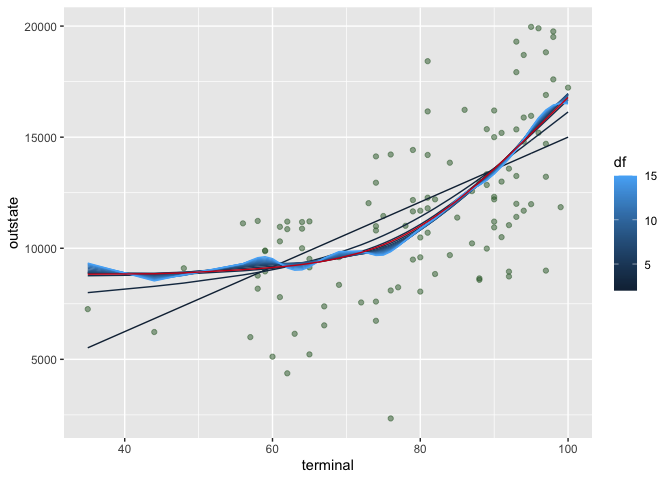
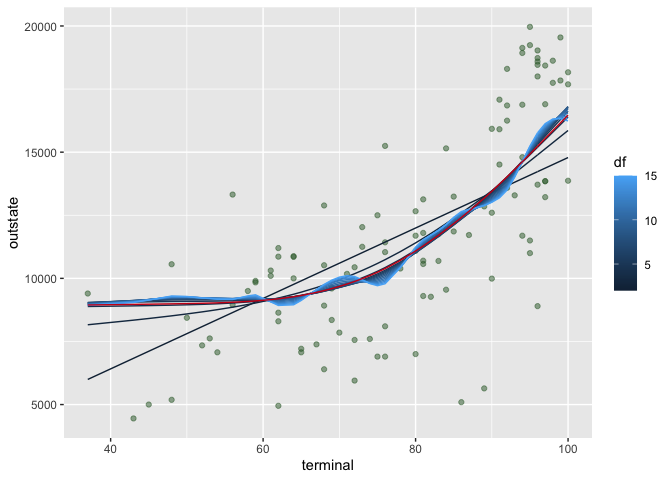
GAM

diff --git a/ds2_hw2.md b/ds2_hw2.md
@@ -53,34 +53,41 @@ dim(train_df)
 summary(train_df)
 ```
 
-    ##     outstate          apps           accept         enroll       top10perc 
-    ##  Min.   : 4400   Min.   :   81   Min.   :  72   Min.   :  35   Min.   : 2  
-    ##  1st Qu.: 9100   1st Qu.:  608   1st Qu.: 497   1st Qu.: 204   1st Qu.:16  
-    ##  Median :11200   Median : 1107   Median : 849   Median : 324   Median :25  
-    ##  Mean   :11830   Mean   : 1941   Mean   :1271   Mean   : 443   Mean   :29  
-    ##  3rd Qu.:13970   3rd Qu.: 2153   3rd Qu.:1553   3rd Qu.: 509   3rd Qu.:36  
-    ##  Max.   :21700   Max.   :13865   Max.   :8498   Max.   :2517   Max.   :96  
-    ##    top25perc      f_undergrad     p_undergrad        room_board  
-    ##  Min.   : 13.0   Min.   :  139   Min.   :    1.0   Min.   :2460  
-    ##  1st Qu.: 42.0   1st Qu.:  846   1st Qu.:   63.0   1st Qu.:3710  
-    ##  Median : 55.0   Median : 1241   Median :  211.0   Median :4400  
-    ##  Mean   : 56.5   Mean   : 1821   Mean   :  428.7   Mean   :4567  
-    ##  3rd Qu.: 69.0   3rd Qu.: 1988   3rd Qu.:  526.0   3rd Qu.:5400  
-    ##  Max.   :100.0   Max.   :13259   Max.   :10221.0   Max.   :7425  
-    ##      books           personal         ph_d           terminal     
-    ##  Min.   : 250.0   Min.   : 250   Min.   : 10.00   Min.   : 24.00  
-    ##  1st Qu.: 450.0   1st Qu.: 800   1st Qu.: 60.00   1st Qu.: 68.00  
-    ##  Median : 500.0   Median :1100   Median : 73.00   Median : 80.00  
-    ##  Mean   : 543.4   Mean   :1221   Mean   : 70.74   Mean   : 78.26  
-    ##  3rd Qu.: 600.0   3rd Qu.:1500   3rd Qu.: 85.00   3rd Qu.: 92.00  
-    ##  Max.   :2000.0   Max.   :4913   Max.   :100.00   Max.   :100.00  
-    ##    s_f_ratio      perc_alumni        expend        grad_rate     
-    ##  Min.   : 2.50   Min.   : 2.00   Min.   : 3186   Min.   : 15.00  
-    ##  1st Qu.:11.10   1st Qu.:16.00   1st Qu.: 7356   1st Qu.: 58.00  
-    ##  Median :12.70   Median :25.00   Median : 8953   Median : 69.00  
-    ##  Mean   :12.93   Mean   :25.83   Mean   :10590   Mean   : 68.67  
-    ##  3rd Qu.:14.50   3rd Qu.:34.00   3rd Qu.:11677   3rd Qu.: 81.00  
-    ##  Max.   :39.80   Max.   :64.00   Max.   :56233   Max.   :118.00
+    ##     outstate          apps           accept          enroll      
+    ##  Min.   : 2340   Min.   :   81   Min.   :   72   Min.   :  35.0  
+    ##  1st Qu.: 9100   1st Qu.:  604   1st Qu.:  485   1st Qu.: 198.0  
+    ##  Median :11200   Median : 1110   Median :  838   Median : 324.0  
+    ##  Mean   :11779   Mean   : 1900   Mean   : 1280   Mean   : 446.9  
+    ##  3rd Qu.:13970   3rd Qu.: 2135   3rd Qu.: 1553   3rd Qu.: 511.0  
+    ##  Max.   :21700   Max.   :20192   Max.   :13007   Max.   :4615.0  
+    ##    top10perc       top25perc      f_undergrad     p_undergrad     
+    ##  Min.   : 1.00   Min.   :  9.0   Min.   :  139   Min.   :    1.0  
+    ##  1st Qu.:16.00   1st Qu.: 43.0   1st Qu.:  822   1st Qu.:   69.0  
+    ##  Median :25.00   Median : 56.0   Median : 1271   Median :  216.0  
+    ##  Mean   :29.25   Mean   : 57.2   Mean   : 1827   Mean   :  435.6  
+    ##  3rd Qu.:36.00   3rd Qu.: 70.0   3rd Qu.: 1983   3rd Qu.:  538.0  
+    ##  Max.   :96.00   Max.   :100.0   Max.   :27378   Max.   :10221.0  
+    ##    room_board       books           personal         ph_d       
+    ##  Min.   :2370   Min.   : 250.0   Min.   : 300   Min.   :  8.00  
+    ##  1st Qu.:3736   1st Qu.: 450.0   1st Qu.: 800   1st Qu.: 60.00  
+    ##  Median :4375   Median : 500.0   Median :1100   Median : 73.00  
+    ##  Mean   :4569   Mean   : 545.3   Mean   :1212   Mean   : 70.84  
+    ##  3rd Qu.:5340   3rd Qu.: 600.0   3rd Qu.:1500   3rd Qu.: 84.00  
+    ##  Max.   :8124   Max.   :2340.0   Max.   :4913   Max.   :100.00  
+    ##     terminal        s_f_ratio      perc_alumni        expend     
+    ##  Min.   : 24.00   Min.   : 2.90   Min.   : 2.00   Min.   : 3480  
+    ##  1st Qu.: 68.00   1st Qu.:11.10   1st Qu.:16.00   1st Qu.: 7477  
+    ##  Median : 81.00   Median :12.70   Median :25.00   Median : 9006  
+    ##  Mean   : 78.45   Mean   :13.04   Mean   :25.93   Mean   :10429  
+    ##  3rd Qu.: 92.00   3rd Qu.:14.50   3rd Qu.:34.00   3rd Qu.:11291  
+    ##  Max.   :100.00   Max.   :39.80   Max.   :64.00   Max.   :56233  
+    ##    grad_rate     
+    ##  Min.   : 18.00  
+    ##  1st Qu.: 59.00  
+    ##  Median : 70.00  
+    ##  Mean   : 69.22  
+    ##  3rd Qu.: 81.00  
+    ##  Max.   :118.00
 
 ``` r
 skimr::skim(train_df)
@@ -103,23 +110,23 @@ Data summary
 
 | skim_variable | n_missing | complete_rate |     mean |      sd |     p0 |    p25 |     p50 |     p75 |    p100 | hist  |
 |:--------------|----------:|--------------:|---------:|--------:|-------:|-------:|--------:|--------:|--------:|:------|
-| outstate      |         0 |             1 | 11829.55 | 3725.90 | 4400.0 | 9100.0 | 11200.0 | 13970.0 | 21700.0 | ▃▇▆▃▂ |
-| apps          |         0 |             1 |  1941.43 | 2335.76 |   81.0 |  608.0 |  1107.0 |  2153.0 | 13865.0 | ▇▁▁▁▁ |
-| accept        |         0 |             1 |  1270.72 | 1247.65 |   72.0 |  497.0 |   849.0 |  1553.0 |  8498.0 | ▇▂▁▁▁ |
-| enroll        |         0 |             1 |   443.02 |  400.73 |   35.0 |  204.0 |   324.0 |   509.0 |  2517.0 | ▇▂▁▁▁ |
-| top10perc     |         0 |             1 |    29.00 |   17.97 |    2.0 |   16.0 |    25.0 |    36.0 |    96.0 | ▇▇▃▁▁ |
-| top25perc     |         0 |             1 |    56.50 |   19.66 |   13.0 |   42.0 |    55.0 |    69.0 |   100.0 | ▂▆▇▅▃ |
-| f_undergrad   |         0 |             1 |  1821.20 | 1756.47 |  139.0 |  846.0 |  1241.0 |  1988.0 | 13259.0 | ▇▁▁▁▁ |
-| p_undergrad   |         0 |             1 |   428.73 |  739.30 |    1.0 |   63.0 |   211.0 |   526.0 | 10221.0 | ▇▁▁▁▁ |
-| room_board    |         0 |             1 |  4566.72 | 1089.86 | 2460.0 | 3710.0 |  4400.0 |  5400.0 |  7425.0 | ▃▇▅▃▁ |
-| books         |         0 |             1 |   543.41 |  165.01 |  250.0 |  450.0 |   500.0 |   600.0 |  2000.0 | ▇▂▁▁▁ |
-| personal      |         0 |             1 |  1220.52 |  608.20 |  250.0 |  800.0 |  1100.0 |  1500.0 |  4913.0 | ▇▅▁▁▁ |
-| ph_d          |         0 |             1 |    70.74 |   17.54 |   10.0 |   60.0 |    73.0 |    85.0 |   100.0 | ▁▂▅▇▆ |
-| terminal      |         0 |             1 |    78.26 |   15.77 |   24.0 |   68.0 |    80.0 |    92.0 |   100.0 | ▁▂▃▆▇ |
-| s_f\_ratio    |         0 |             1 |    12.93 |    3.59 |    2.5 |   11.1 |    12.7 |    14.5 |    39.8 | ▂▇▁▁▁ |
-| perc_alumni   |         0 |             1 |    25.83 |   12.31 |    2.0 |   16.0 |    25.0 |    34.0 |    64.0 | ▅▇▇▂▁ |
-| expend        |         0 |             1 | 10589.60 | 5987.11 | 3186.0 | 7356.0 |  8953.0 | 11677.0 | 56233.0 | ▇▂▁▁▁ |
-| grad_rate     |         0 |             1 |    68.67 |   16.52 |   15.0 |   58.0 |    69.0 |    81.0 |   118.0 | ▁▅▇▆▁ |
+| outstate      |         0 |             1 | 11778.72 | 3636.44 | 2340.0 | 9100.0 | 11200.0 | 13970.0 | 21700.0 | ▁▆▇▃▂ |
+| apps          |         0 |             1 |  1900.11 | 2368.92 |   81.0 |  604.0 |  1110.0 |  2135.0 | 20192.0 | ▇▁▁▁▁ |
+| accept        |         0 |             1 |  1280.25 | 1375.00 |   72.0 |  485.0 |   838.0 |  1553.0 | 13007.0 | ▇▁▁▁▁ |
+| enroll        |         0 |             1 |   446.90 |  457.83 |   35.0 |  198.0 |   324.0 |   511.0 |  4615.0 | ▇▁▁▁▁ |
+| top10perc     |         0 |             1 |    29.25 |   17.51 |    1.0 |   16.0 |    25.0 |    36.0 |    96.0 | ▆▇▃▁▁ |
+| top25perc     |         0 |             1 |    57.20 |   19.38 |    9.0 |   43.0 |    56.0 |    70.0 |   100.0 | ▁▆▇▅▃ |
+| f_undergrad   |         0 |             1 |  1827.30 | 2109.70 |  139.0 |  822.0 |  1271.0 |  1983.0 | 27378.0 | ▇▁▁▁▁ |
+| p_undergrad   |         0 |             1 |   435.63 |  732.64 |    1.0 |   69.0 |   216.0 |   538.0 | 10221.0 | ▇▁▁▁▁ |
+| room_board    |         0 |             1 |  4569.20 | 1076.78 | 2370.0 | 3736.0 |  4375.0 |  5340.0 |  8124.0 | ▃▇▅▃▁ |
+| books         |         0 |             1 |   545.30 |  177.00 |  250.0 |  450.0 |   500.0 |   600.0 |  2340.0 | ▇▁▁▁▁ |
+| personal      |         0 |             1 |  1212.21 |  592.41 |  300.0 |  800.0 |  1100.0 |  1500.0 |  4913.0 | ▇▅▁▁▁ |
+| ph_d          |         0 |             1 |    70.84 |   17.37 |    8.0 |   60.0 |    73.0 |    84.0 |   100.0 | ▁▁▅▇▆ |
+| terminal      |         0 |             1 |    78.45 |   15.43 |   24.0 |   68.0 |    81.0 |    92.0 |   100.0 | ▁▁▃▆▇ |
+| s_f\_ratio    |         0 |             1 |    13.04 |    3.58 |    2.9 |   11.1 |    12.7 |    14.5 |    39.8 | ▂▇▁▁▁ |
+| perc_alumni   |         0 |             1 |    25.93 |   12.45 |    2.0 |   16.0 |    25.0 |    34.0 |    64.0 | ▅▇▇▂▁ |
+| expend        |         0 |             1 | 10428.70 | 5640.67 | 3480.0 | 7477.0 |  9006.0 | 11291.0 | 56233.0 | ▇▁▁▁▁ |
+| grad_rate     |         0 |             1 |    69.22 |   16.57 |   18.0 |   59.0 |    70.0 |    81.0 |   118.0 | ▁▃▇▅▁ |
 
 There are 453 rows and 17 columns in training data, all the variables
 are numeric.
@@ -162,10 +169,10 @@ fit_ss = smooth.spline(x = train_df$terminal, y = train_df$outstate)
 fit_ss$df
 ```
 
-    ## [1] 4.390602
+    ## [1] 4.259664
 
 The optimal degree of freedom obtained by default cross validation is
-4.391.
+4.26.
 
 Use this **optimal degree of freedom** to make following predictions:
 
@@ -270,4 +277,141 @@ model using the optimum degree of freedom.
 As the degree of freedom approaching to 2, the line gets more linear; as
 the degree of freedom approaching to 15, the line gets more wiggled.  
 Among all the fitted lines within the (2, 15) degree of freedom range,
-df = 4.391 should be the nearest to the red line.
+df = 4.26 should be the nearest to the red line.
+
+## Generalized Additive Model (GAM)
+
+``` r
+set.seed(2570)
+
+# set cross validation method
+ctrl = trainControl(method = "cv", number = 10)
+
+# fit a GAM model using all the predictors
+# ngcv package not available for current R version, siwth to caret
+gam_fit = train(x = x_train,
+                y = y_train,
+                method = "gam",
+                #tuneGrid = data.frame(method = "GCV.Cp",select = c(TRUE, FALSE)),
+                trControl = ctrl)
+```
+
+    ## Loading required package: mgcv
+
+    ## Loading required package: nlme
+
+    ## 
+    ## Attaching package: 'nlme'
+
+    ## The following object is masked from 'package:dplyr':
+    ## 
+    ##     collapse
+
+    ## This is mgcv 1.8-38. For overview type 'help("mgcv-package")'.
+
+``` r
+gam_fit$bestTune
+```
+
+    ##   select method
+    ## 1  FALSE GCV.Cp
+
+``` r
+gam_fit$finalModel
+```
+
+    ## 
+    ## Family: gaussian 
+    ## Link function: identity 
+    ## 
+    ## Formula:
+    ## .outcome ~ s(perc_alumni) + s(terminal) + s(books) + s(top10perc) + 
+    ##     s(grad_rate) + s(ph_d) + s(top25perc) + s(s_f_ratio) + s(personal) + 
+    ##     s(p_undergrad) + s(room_board) + s(enroll) + s(accept) + 
+    ##     s(f_undergrad) + s(apps) + s(expend)
+    ## 
+    ## Estimated degrees of freedom:
+    ## 1.91 1.00 1.50 8.25 4.26 5.18 1.23 
+    ## 4.36 2.25 1.00 2.48 1.00 1.00 6.80 
+    ## 1.00 6.02  total = 50.25 
+    ## 
+    ## GCV score: 2687719
+
+``` r
+summary(gam_fit)
+```
+
+    ## 
+    ## Family: gaussian 
+    ## Link function: identity 
+    ## 
+    ## Formula:
+    ## .outcome ~ s(perc_alumni) + s(terminal) + s(books) + s(top10perc) + 
+    ##     s(grad_rate) + s(ph_d) + s(top25perc) + s(s_f_ratio) + s(personal) + 
+    ##     s(p_undergrad) + s(room_board) + s(enroll) + s(accept) + 
+    ##     s(f_undergrad) + s(apps) + s(expend)
+    ## 
+    ## Parametric coefficients:
+    ##             Estimate Std. Error t value Pr(>|t|)    
+    ## (Intercept) 11778.72      72.63   162.2   <2e-16 ***
+    ## ---
+    ## Signif. codes:  0 '***' 0.001 '**' 0.01 '*' 0.05 '.' 0.1 ' ' 1
+    ## 
+    ## Approximate significance of smooth terms:
+    ##                  edf Ref.df      F  p-value    
+    ## s(perc_alumni) 1.910  2.419  6.649 0.000839 ***
+    ## s(terminal)    1.000  1.000  0.692 0.406053    
+    ## s(books)       1.499  1.832  0.624 0.420977    
+    ## s(top10perc)   8.255  8.799  2.444 0.008651 ** 
+    ## s(grad_rate)   4.260  5.295  3.064 0.008835 ** 
+    ## s(ph_d)        5.183  6.256  1.508 0.200682    
+    ## s(top25perc)   1.231  1.430  0.203 0.706215    
+    ## s(s_f_ratio)   4.363  5.404  1.949 0.066256 .  
+    ## s(personal)    2.251  2.841  2.539 0.086612 .  
+    ## s(p_undergrad) 1.000  1.000  0.030 0.862101    
+    ## s(room_board)  2.479  3.151 18.809  < 2e-16 ***
+    ## s(enroll)      1.000  1.000 13.005 0.000350 ***
+    ## s(accept)      1.000  1.000 17.992 2.82e-05 ***
+    ## s(f_undergrad) 6.796  7.826  6.580  < 2e-16 ***
+    ## s(apps)        1.000  1.000  5.426 0.020336 *  
+    ## s(expend)      6.020  7.201 18.351  < 2e-16 ***
+    ## ---
+    ## Signif. codes:  0 '***' 0.001 '**' 0.01 '*' 0.05 '.' 0.1 ' ' 1
+    ## 
+    ## R-sq.(adj) =  0.819   Deviance explained = 83.9%
+    ## GCV = 2.6877e+06  Scale est. = 2.3896e+06  n = 453
+
+``` r
+# plot the results
+par(mar=c(1,1,1,1))
+par(mfrow = c(4, 4))
+
+plot(gam_fit$finalModel, 
+     residuals = TRUE, 
+     all.terms = TRUE, 
+     shade = TRUE, 
+     shade.col = 5)
+```
+
+![](ds2_hw2_files/figure-gfm/unnamed-chunk-10-1.png)<!-- -->
+
+``` r
+# train RMSE of final model
+gam_train_rmse = sqrt(mean((y_train - predict(gam_fit)) ^ 2))
+gam_train_rmse
+```
+
+    ## [1] 1457.587
+
+``` r
+# make predictions
+gam_pred = predict(gam_fit, x_test)
+
+# test RMSE of final model
+gam_test_rmse = sqrt(mean(y_test - gam_pred) ^ 2)
+gam_test_rmse
+```
+
+    ## [1] 54.51734
+
+The training RMSE is1457.5865571 and the test RMSE is 54.5173396.
